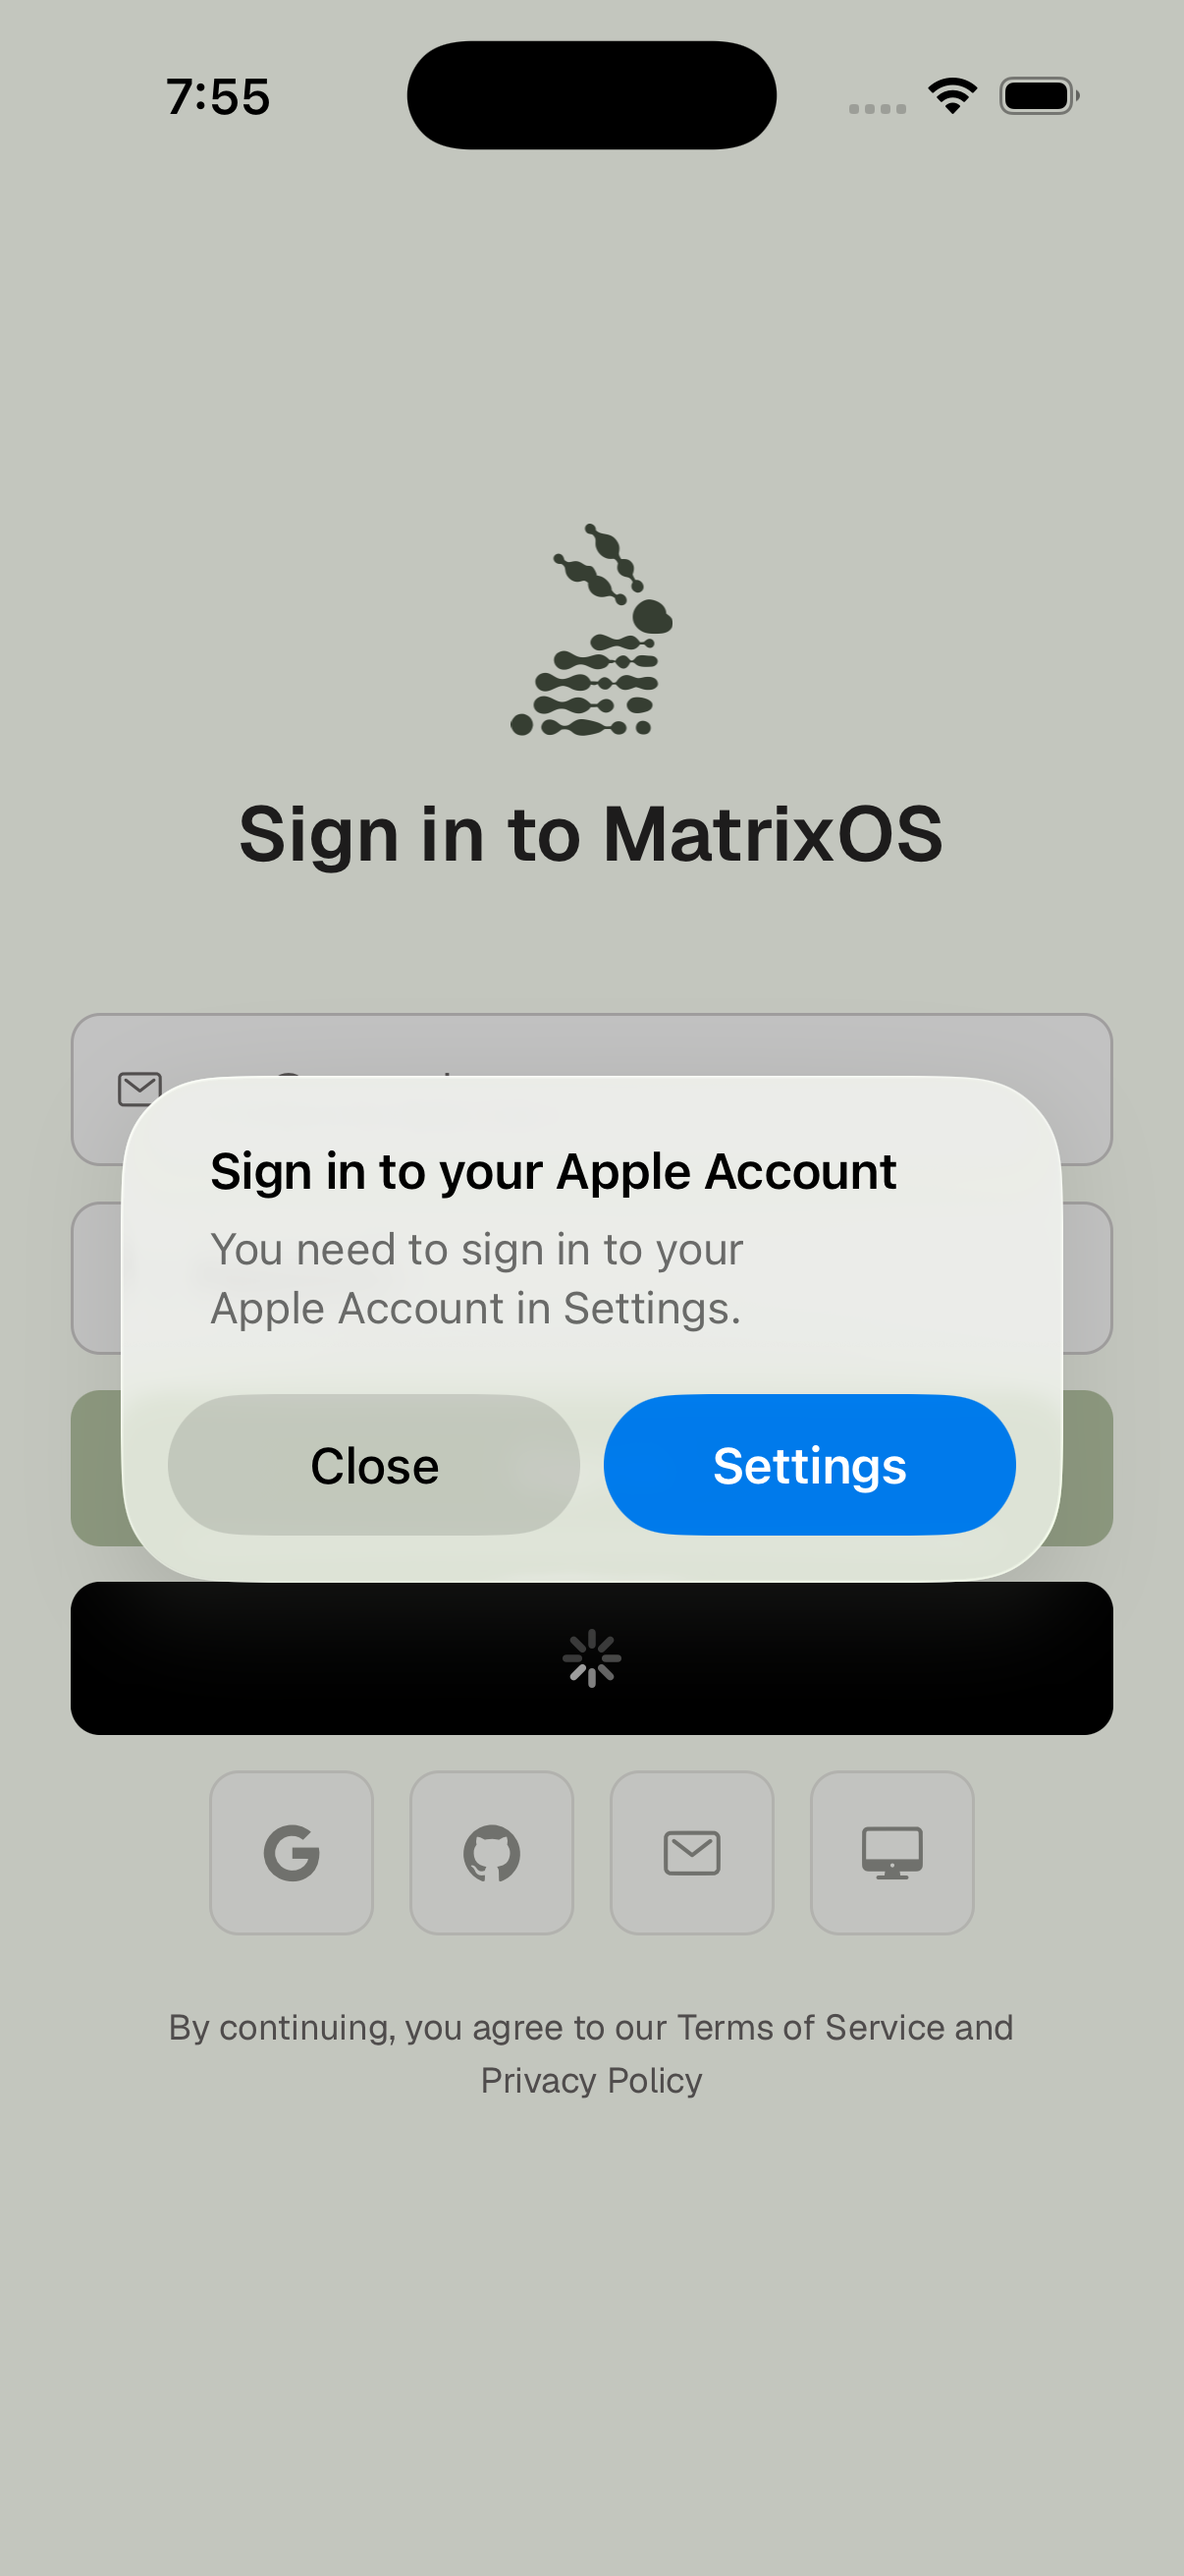
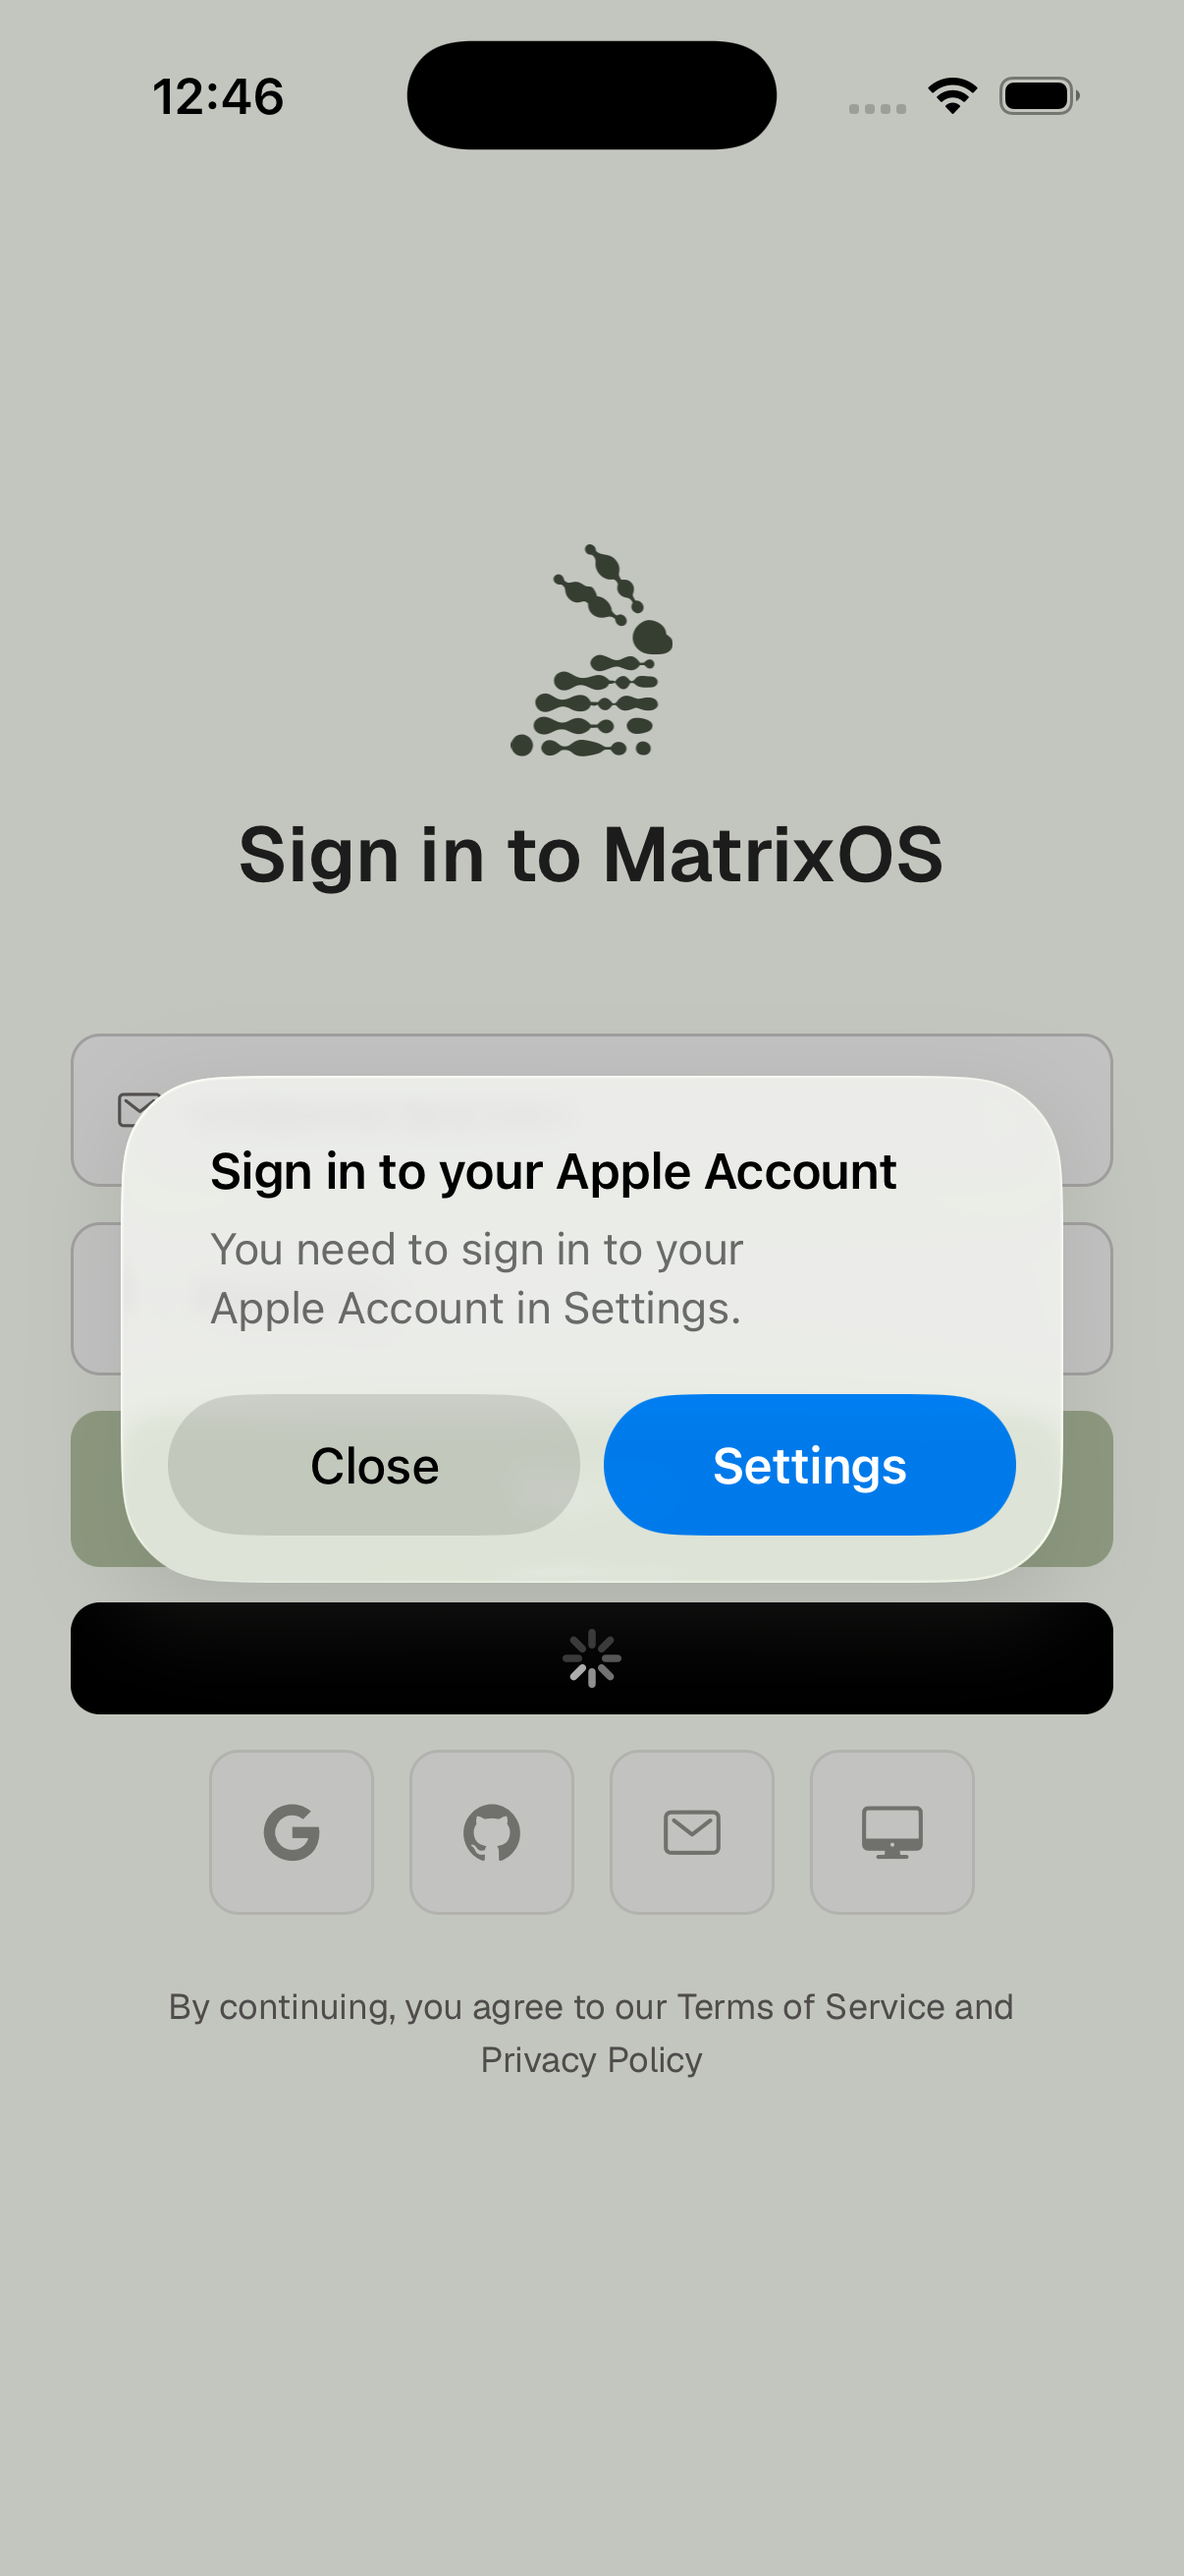
fix(mobile): size the Sign in with Apple title to match the Sign in label
iOS draws the system button's title at about 43% of the button's height and
offers no font size. Reduce the button from 52pt to 38pt so the title is 16pt,
the size of the "Sign in" label above it, and refresh the screenshots.

diff --git a/apps/mobile/components/auth/AppleSignInButton.tsx b/apps/mobile/components/auth/AppleSignInButton.tsx
@@ -7,6 +7,11 @@ import { StyleSheet, useUnistyles } from "react-native-unistyles";
 const APPLE_BLACK = "#000000";
 const APPLE_WHITE = "#FFFFFF";
 
+// The system button draws its title at about 43% of its own height and has no
+// font size of its own, so the height is what sets the text size. 38pt gives a
+// 16pt title, the size of the "Sign in" label above it.
+const APPLE_BUTTON_HEIGHT = 38;
+
 type AppleSignInButtonProps = {
   /** True while this button's own sign-in is running. */
   loading: boolean;
@@ -18,7 +23,8 @@ type AppleSignInButtonProps = {
 /**
  * Apple's own "Sign in with Apple" button. The system draws, localises and
  * labels it, which is what keeps it within Apple's rules for the button; only
- * its size, corner radius and light or dark style are ours to set.
+ * its size, corner radius and light or dark style are ours to set. The title
+ * follows the height, so the two cannot be chosen separately.
  */
 export function AppleSignInButton({ loading, disabled, onPress }: AppleSignInButtonProps) {
   const { theme } = useUnistyles();
@@ -55,7 +61,7 @@ export function AppleSignInButton({ loading, disabled, onPress }: AppleSignInBut
 
 const styles = StyleSheet.create((theme) => ({
   frame: {
-    height: 52,
+    height: APPLE_BUTTON_HEIGHT,
   },
   frameDisabled: {
     opacity: 0.5,

diff --git a/apps/mobile/__tests__/sign-in-screen-apple.test.tsx b/apps/mobile/__tests__/sign-in-screen-apple.test.tsx
@@ -1,5 +1,5 @@
 import { fireEvent, render, screen, waitFor } from "@testing-library/react-native";
-import { Platform } from "react-native";
+import { Platform, StyleSheet } from "react-native";
 
 const mockReplace = jest.fn();
 jest.mock("expo-router", () => ({
@@ -142,6 +142,15 @@ describe("SignInScreen Sign in with Apple", () => {
     const button = screen.getByTestId(APPLE_BUTTON);
     expect(button.props.buttonType).toBe(0);
     expect(button.props.buttonStyle).toBe(2);
+  });
+
+  it("sizes the system button so its title is as large as the Sign in label", () => {
+    // iOS draws the title at about 43% of the button's height and offers no
+    // font size, so a 16pt title means a 38pt-high button.
+    render(<SignInScreen />);
+
+    const frame = StyleSheet.flatten(screen.getByTestId("apple-sign-in").props.style);
+    expect(frame.height).toBe(38);
   });
 
   it("does not offer Apple on Android, where the native flow does not exist", () => {

diff --git a/docs/dev/mobile-shell.md b/docs/dev/mobile-shell.md
@@ -207,7 +207,10 @@ activates the session, so the tap does not end in nothing:
 ### Sign in with Apple
 
 iOS only. The button is Apple's system button (`AppleAuthenticationButton`), a
-full-width row above the provider icons; Android does not render it.
+full-width row above the provider icons; Android does not render it. iOS draws
+its title at about 43% of the button's height and offers no font size, so the
+button is 38pt high to give a 16pt title, the size of the "Sign in" label.
+Changing the title size means changing the height.
 
 The flow is native, not a browser round trip: `expo-apple-authentication`
 presents Apple's sheet, and its identity token goes to Clerk as
